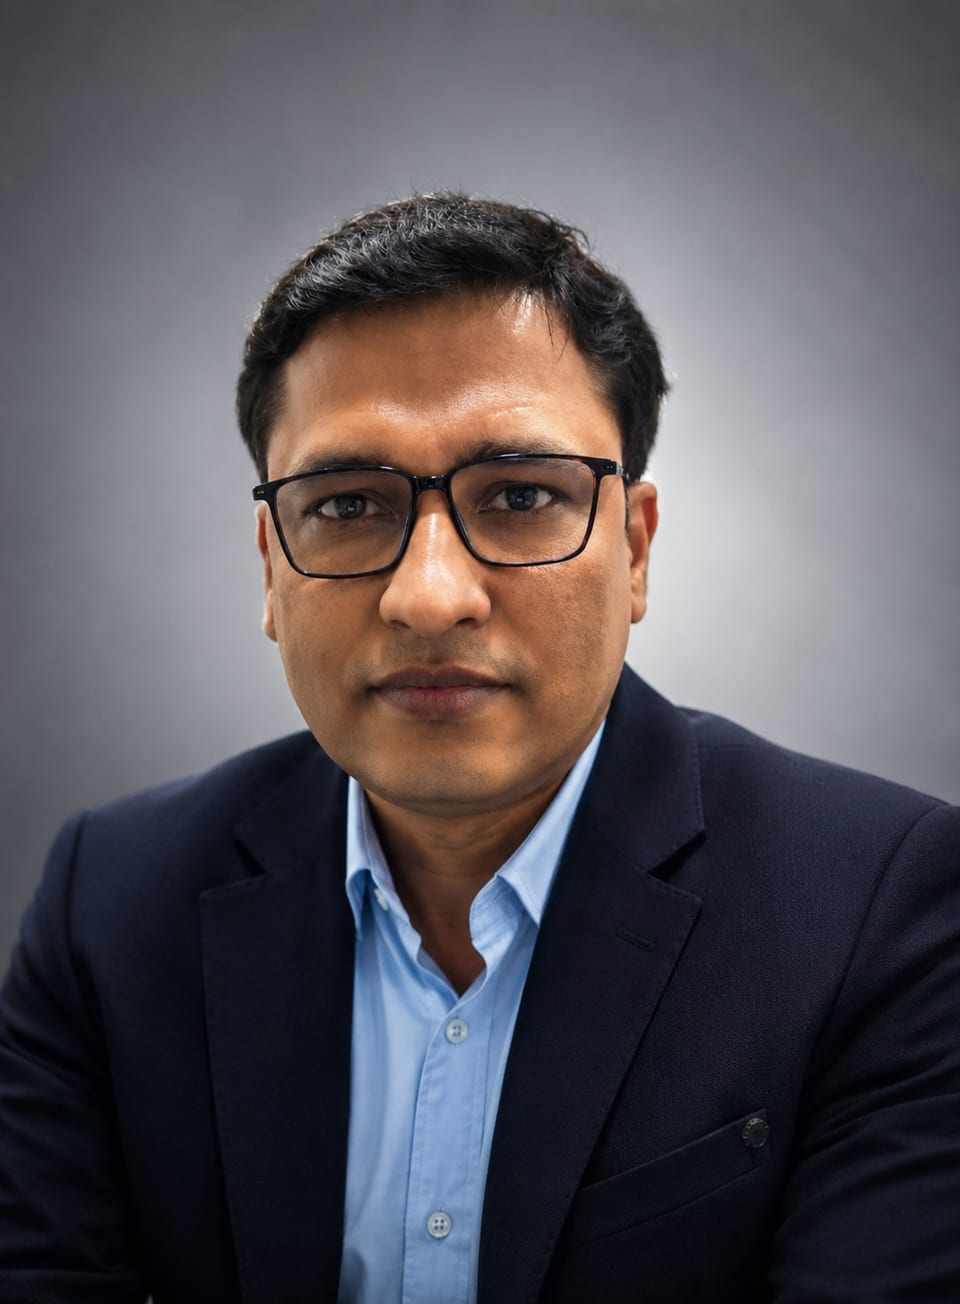
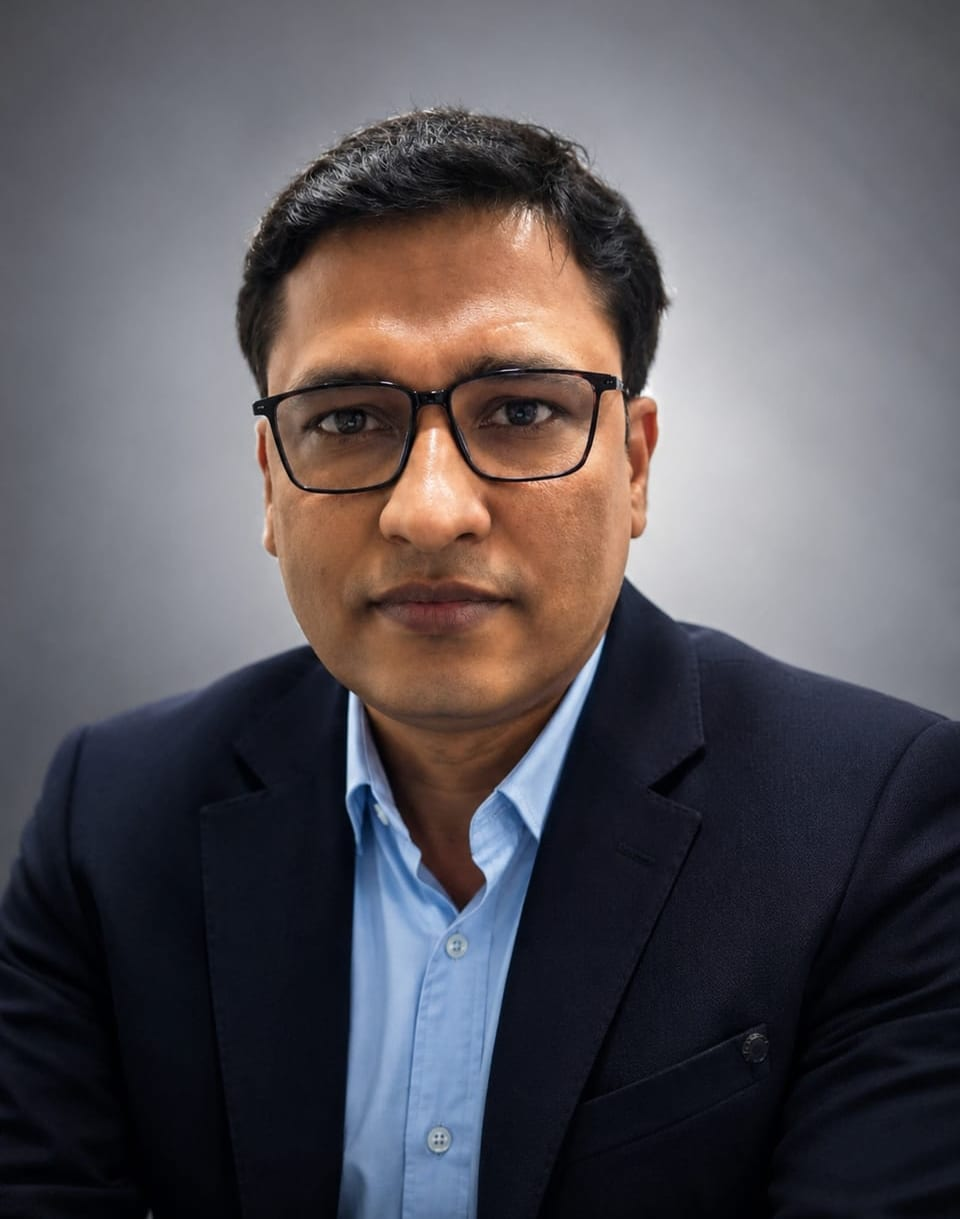
fix(FounderSplit): balance the box — center body, tighten portrait, add breathing room
- vertically center the body text (was top-aligned, leaving dead space at the box
  bottom on desktop); ease padding 64->56
- trim ~85px of headroom from the portrait for a tighter, less loose crop
- add 64px breathing room below the founder band on home so it isn't flush
  against the dark CTA band (external spacing)

diff --git a/src/components/FounderSplit.module.css b/src/components/FounderSplit.module.css
@@ -24,7 +24,10 @@
   pointer-events: none;
 }
 .body {
-  padding: 64px 56px;
+  padding: 56px 56px;
+  display: flex;
+  flex-direction: column;
+  justify-content: center;
 }
 .name {
   font-size: 36px;

diff --git a/src/app/Home.module.css b/src/app/Home.module.css
@@ -70,6 +70,10 @@
 .ctaAccent {
   color: var(--brand-200);
 }
+/* breathing room below the founder band so it isn't flush against the dark CTA */
+.founderWrap {
+  margin-bottom: 64px;
+}
 @media (max-width: 820px) {
   .pgrid {
     grid-template-columns: 1fr;

diff --git a/src/app/page.tsx b/src/app/page.tsx
@@ -141,7 +141,7 @@ export default function HomePage() {
       </Quote>
 
       {/* Founder — verbatim-composed from the reference (About blurb + home teaser) */}
-      <Container>
+      <Container className={styles.founderWrap}>
         <FounderSplit
           eyebrow="The consultant"
           name={FOUNDER.name}